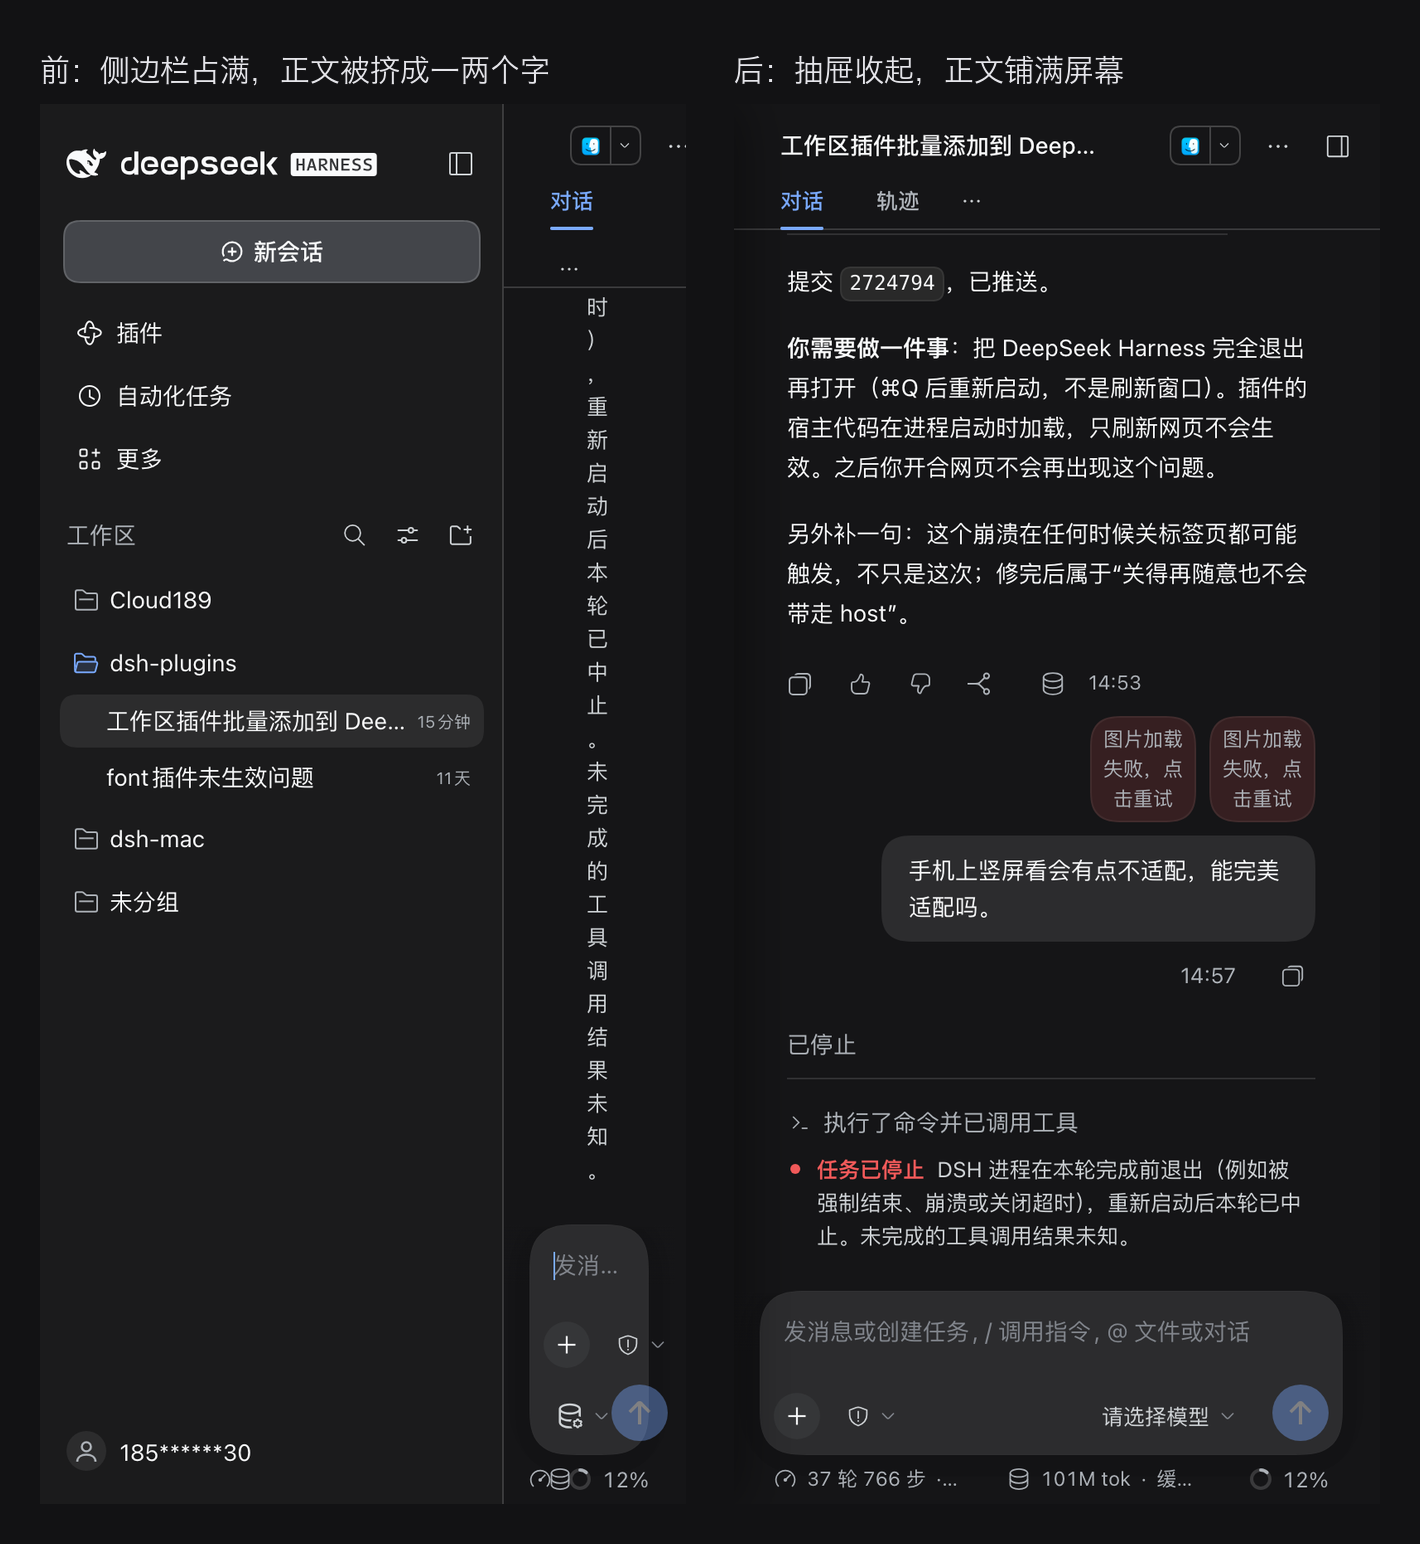
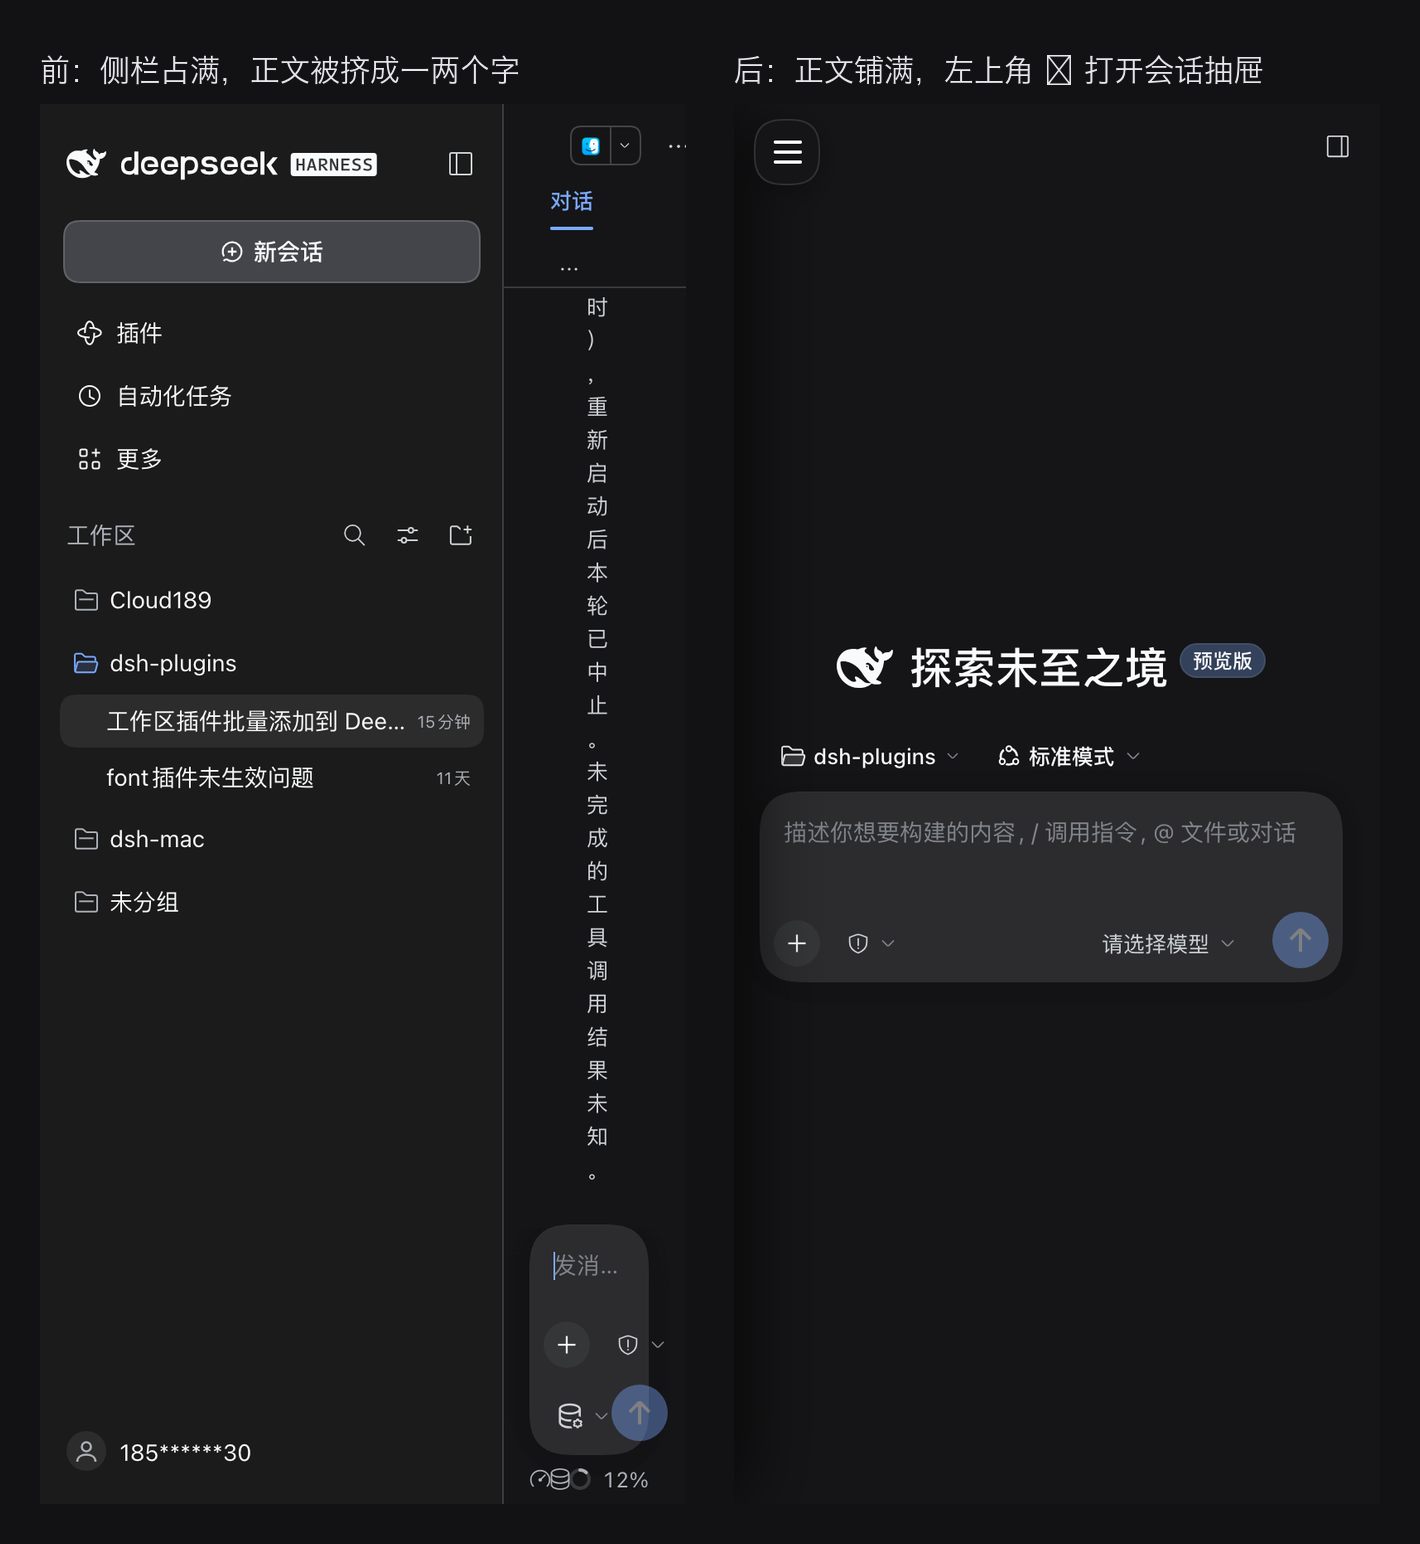
mobile_fit: 补左上角 ☰ 入口，抽屉加圆角与更深的遮罩
- dsh 侧边栏收起后整列被隐藏时没有任何入口，新增固定的圆形 ☰ 按钮（仅窄屏、抽屉关闭时显示），点击等同点 dsh 的「打开侧边栏」
- 抽屉右侧圆角 + 更深的投影，遮罩从 0.48 加深到 0.62
- 更新 README 与前后对比图

diff --git a/mobile_fit/lib/client.js b/mobile_fit/lib/client.js
@@ -35,14 +35,15 @@ window.__ModuleLoader__.load({
 			'    transform: translateX(-102%);',
 			'    transition: transform .22s cubic-bezier(.32,.72,0,1);',
 			'    background: var(--dsw-alias-bg-base, #17171a);',
-			'    box-shadow: 8px 0 32px rgba(0,0,0,.45);',
+			'    border-radius: 0 18px 18px 0;',
+			'    box-shadow: 12px 0 48px rgba(0,0,0,.72);',
 			'    padding-top: env(safe-area-inset-top);',
 			'    padding-bottom: env(safe-area-inset-bottom);',
 			'  }',
 			'  body.dshm-open [class*="_sidebarCol"] { transform: none; }',
 			'  .dshm-mask {',
 			'    position: fixed; inset: 0; z-index: 65;',
-			'    background: rgba(0,0,0,.48);',
+			'    background: rgba(0,0,0,.62);',
 			'    opacity: 0; pointer-events: none;',
 			'    transition: opacity .22s ease;',
 			'  }',
@@ -51,6 +52,19 @@ window.__ModuleLoader__.load({
 			'  table { display: block; overflow-x: auto; max-width: 100%; }',
 			'  img { max-width: 100%; height: auto; }',
 			'  [class*="_dialog"] { max-width: calc(100vw - 24px) !important; max-height: calc(100dvh - 48px) !important; }',
+			'  .dshm-fab {',
+			'    position: fixed;',
+			'    top: calc(env(safe-area-inset-top) + 9px); left: 12px;',
+			'    width: 40px; height: 40px; border-radius: 20px;',
+			'    display: none; flex-direction: column; align-items: center; justify-content: center;',
+			'    z-index: 80; padding: 0; cursor: pointer;',
+			'    color: var(--dsw-alias-label-primary, #1b1b1f);',
+			'    background: var(--dsw-alias-bg-elevated, var(--dsw-alias-bg-base, #1f1f24));',
+			'    border: 1px solid var(--dsw-alias-border-l2, rgba(127,127,127,.28));',
+			'    box-shadow: 0 4px 16px rgba(0,0,0,.28);',
+			'  }',
+			'  .dshm-fab i { display: block; width: 17px; height: 2px; border-radius: 1px; background: currentColor; margin: 2.2px 0; }',
+			'  @media (max-width: ' + BREAKPOINT + 'px) { body:not(.dshm-open) .dshm-fab { display: flex; } }',
 			'  [class*="composer"], [class*="Composer"] { padding-bottom: env(safe-area-inset-bottom); }',
 			'}'
 		].join("\n");
@@ -60,6 +74,7 @@ window.__ModuleLoader__.load({
 
 		var started = false;
 		var mask = null;
+		var fab = null;
 		var observer = null;
 		var mq = null;
 		var scheduled = 0;
@@ -105,6 +120,11 @@ window.__ModuleLoader__.load({
 			}, 40);
 		}
 
+		function expand() {
+			var open = findByLabel(OPEN_LABEL);
+			if (open) open.click();
+		}
+
 		function collapse() {
 			var close = findByLabel(CLOSE_LABEL);
 			if (close) close.click();
@@ -119,6 +139,22 @@ window.__ModuleLoader__.load({
 			mask.addEventListener("click", collapse);
 			document.body.appendChild(mask);
 			return mask;
+		}
+
+		function ensureFab() {
+			if (fab && fab.isConnected) return fab;
+			fab = document.createElement("button");
+			fab.type = "button";
+			fab.className = "dshm-fab";
+			fab.setAttribute("aria-label", "打开会话列表");
+			for (var i = 0; i < 3; i++) fab.appendChild(document.createElement("i"));
+			fab.addEventListener("click", function (event) {
+				event.preventDefault();
+				event.stopPropagation();
+				expand();
+			});
+			document.body.appendChild(fab);
+			return fab;
 		}
 
 		function onDocumentClick(event) {
@@ -172,6 +208,7 @@ window.__ModuleLoader__.load({
 
 			function boot() {
 				ensureMask();
+				ensureFab();
 				sync();
 				observer = new MutationObserver(scheduleSync);
 				observer.observe(document.body, {
